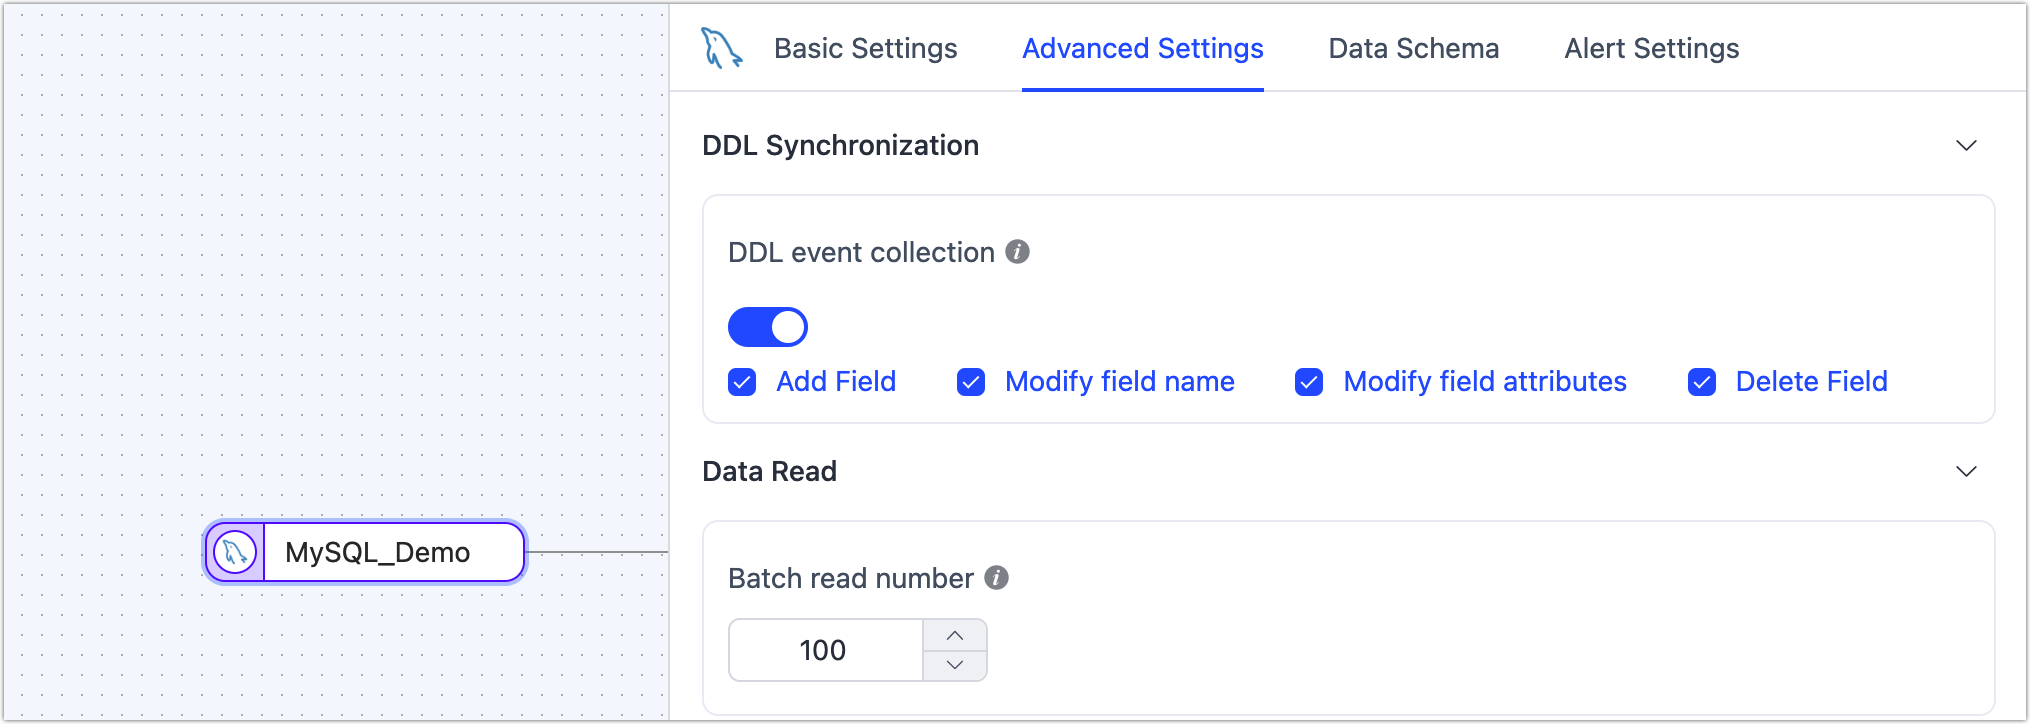
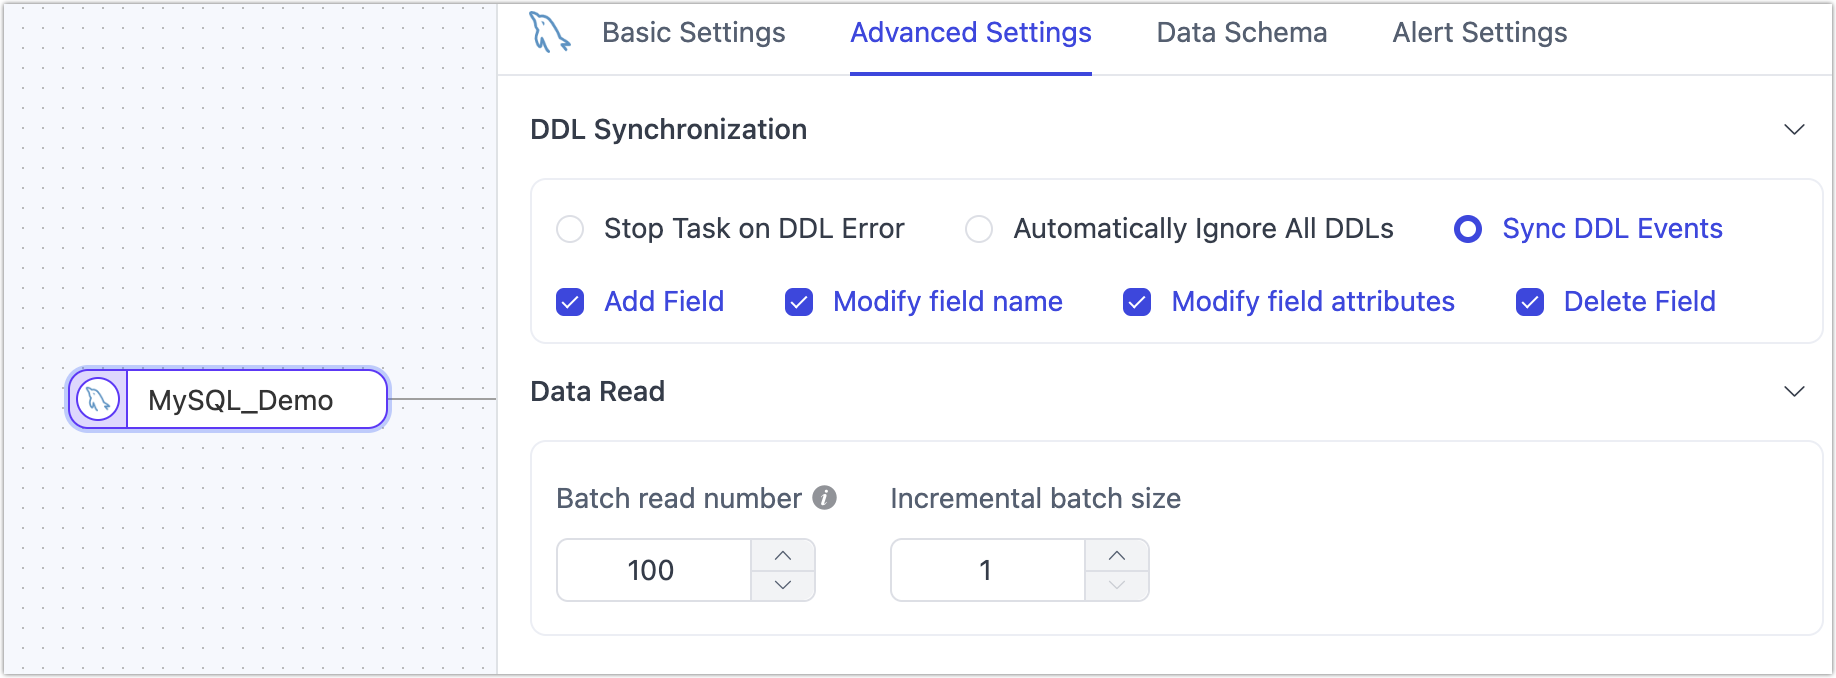
Release 20240308

diff --git a/docs/cloud/release-notes.md b/docs/cloud/release-notes.md
@@ -2,7 +2,19 @@
 
 To enhance the user experience, Tapdata Cloud continuously enriches and optimizes product features and rectifies known defects by releasing new versions. This article provides an update log for Tapdata Cloud, helping you grasp the new feature specifications more effectively.
 
+##  2024-03-08
 
+### New Features
+
+* Support for setting [default alarm recipients](user-guide/workshop#notifications), allowing customization of alarm receipt email addresses (supports multiple addresses).
+* New options in [DDL synchronization settings](user-guide/handle-schema-changes.md): **Stop Task on DDL Error** and **Automatically Ignore All DDLs**, catering to different business scenario needs.
+* Added a [time field injection](user-guide/data-development/process-node#time_injection) node, allowing the addition of a custom timestamp field to data during synchronization. This provides a more flexible way to capture incremental changes from the source database.
+
+### Enhancements
+
+* Optimized task retry logic and interface prompt information.
+* Enhanced the setting for incremental collection timing, supporting quick selection of the incremental time point from the last incremental run.
+* Improved the interaction logic for using external storage with the master-slave merge node.
 
 ## 2024-01-26
 

diff --git a/docs/cloud/user-guide/data-development/create-task.md b/docs/cloud/user-guide/data-development/create-task.md
@@ -36,7 +36,7 @@ As an example, we will show how to change the **birthdate** field's data type fr
 
       * **Node name**: Defaults to connection name, you can also set a name that has business significance.
       * **Table**: n Select the desired source table that you wish to work with.
-      * **DDL event collection**: Once the switch is turned on, Tapdata Cloud will automatically collect the selected source DDL events, such as the addition of new fields. If the target database supports DDL writing, it enables DDL statement synchronization, ensuring that any changes in the source table's structure are reflected in the target database.
+      * **Sync DDL Events**: Once the switch is turned on, Tapdata Cloud will automatically collect the selected source DDL events, such as the addition of new fields. If the target database supports DDL writing, it enables DDL statement synchronization, ensuring that any changes in the source table's structure are reflected in the target database.
       * **Filter settings**: Default off, after turning on you need to specify data filtering conditions.
 
    2. Click **Type modification** node, and in the right panel, modify the **birthdate** field to the type **Date**.

diff --git a/docs/cloud/user-guide/workshop.md b/docs/cloud/user-guide/workshop.md
@@ -12,6 +12,6 @@ You can view the information related to Agents, Connections, Number of Pipelines
 
 
 
-## System Notification
+## <span id="notifications">System Notification</span>
 
-To conveniently access the most recent system notifications and alerts, including Agent status updates, simply hover your mouse over the **Notification** icon located in the upper right corner. Moreover, by clicking on **View all notifications**, you can navigate to the **System notification** page and configure the settings for Agent notifications, such as Mail/SMS notifications, and more.
+To conveniently access the most recent system notifications and alerts, including Agent status updates, simply hover your mouse over the **Notification** icon located in the upper right corner. Moreover, you can click on **Notifications** to enter the **Notification List** page, where you can set the method (e.g., email/SMS, etc.) for Agent notifications, rules, and **Default Alarm Recipients** (supports multiple email addresses).

diff --git a/docs/cloud/user-guide/data-development/process-node.md b/docs/cloud/user-guide/data-development/process-node.md
@@ -251,7 +251,12 @@ Suppose there is a collection named `customer_json` that records the list of pro
 
 :::
 
+## Time Field Injection
+In real-time data integration and synchronization processes, capturing and synchronizing incremental data is key to ensuring data consistency and timeliness. 
 
+When the data source lacks complete CDC support or is restricted by permission controls from accessing incremental logs, we can add a time field injection node to the data synchronization chain. This node automatically adds timestamp information to the source table data read. Subsequently, in the target table's configuration, this field (of DATETIME type) can be selected for polling to achieve incremental data retrieval, thereby further enhancing the flexibility of real-time data acquisition methods.
+
+![Time Field Injection](../../images/time_field_injection.png)
 
 ## <span id="js-process">JS Processing</span>
 

diff --git a/docs/cloud/user-guide/copy-data/create-task.md b/docs/cloud/user-guide/copy-data/create-task.md
@@ -57,7 +57,7 @@ As an example of creating a data replication task, the article demonstrates the 
    * **Advanced Settings**      
 
       * **DDL Synchronization**      
-        Choose whether to enable **DDL Event Collection**. When this switch is on, Tapdata will automatically collect the DDL events (like adding fields) from the selected source. If the target side supports DDL writing, the DDL statements can be synchronized.      
+        Choose whether to enable **Sync DDL Events**. When this switch is on, Tapdata will automatically collect the DDL events (like adding fields) from the selected source. If the target side supports DDL writing, the DDL statements can be synchronized.      
 
       * **Incremental Method**      
         Choose **Log CDC** or **Polling**. If you select **Polling**, you'll also need to specify the polling field, interval, and number of rows read each time.

diff --git a/docs/cloud/user-guide/handle-schema-changes.md b/docs/cloud/user-guide/handle-schema-changes.md
@@ -8,7 +8,7 @@ To ensure the high availability and fault tolerance of data replication/transfor
 
 1. When creating or editing a [data replication](copy-data/create-task.md) or [data transformation](data-development/create-task.md) task, go to the configuration page of the source database node.
 
-2. Find the **Advanced Settings** tab and check if the **DDL Event Collection** option is available.
+2. Find the **Advanced Settings** tab and check if the **Sync DDL Events** option is available.
 
 3. Depending on your specific data source type, enable this feature and select the DDL events to be collected.
 
